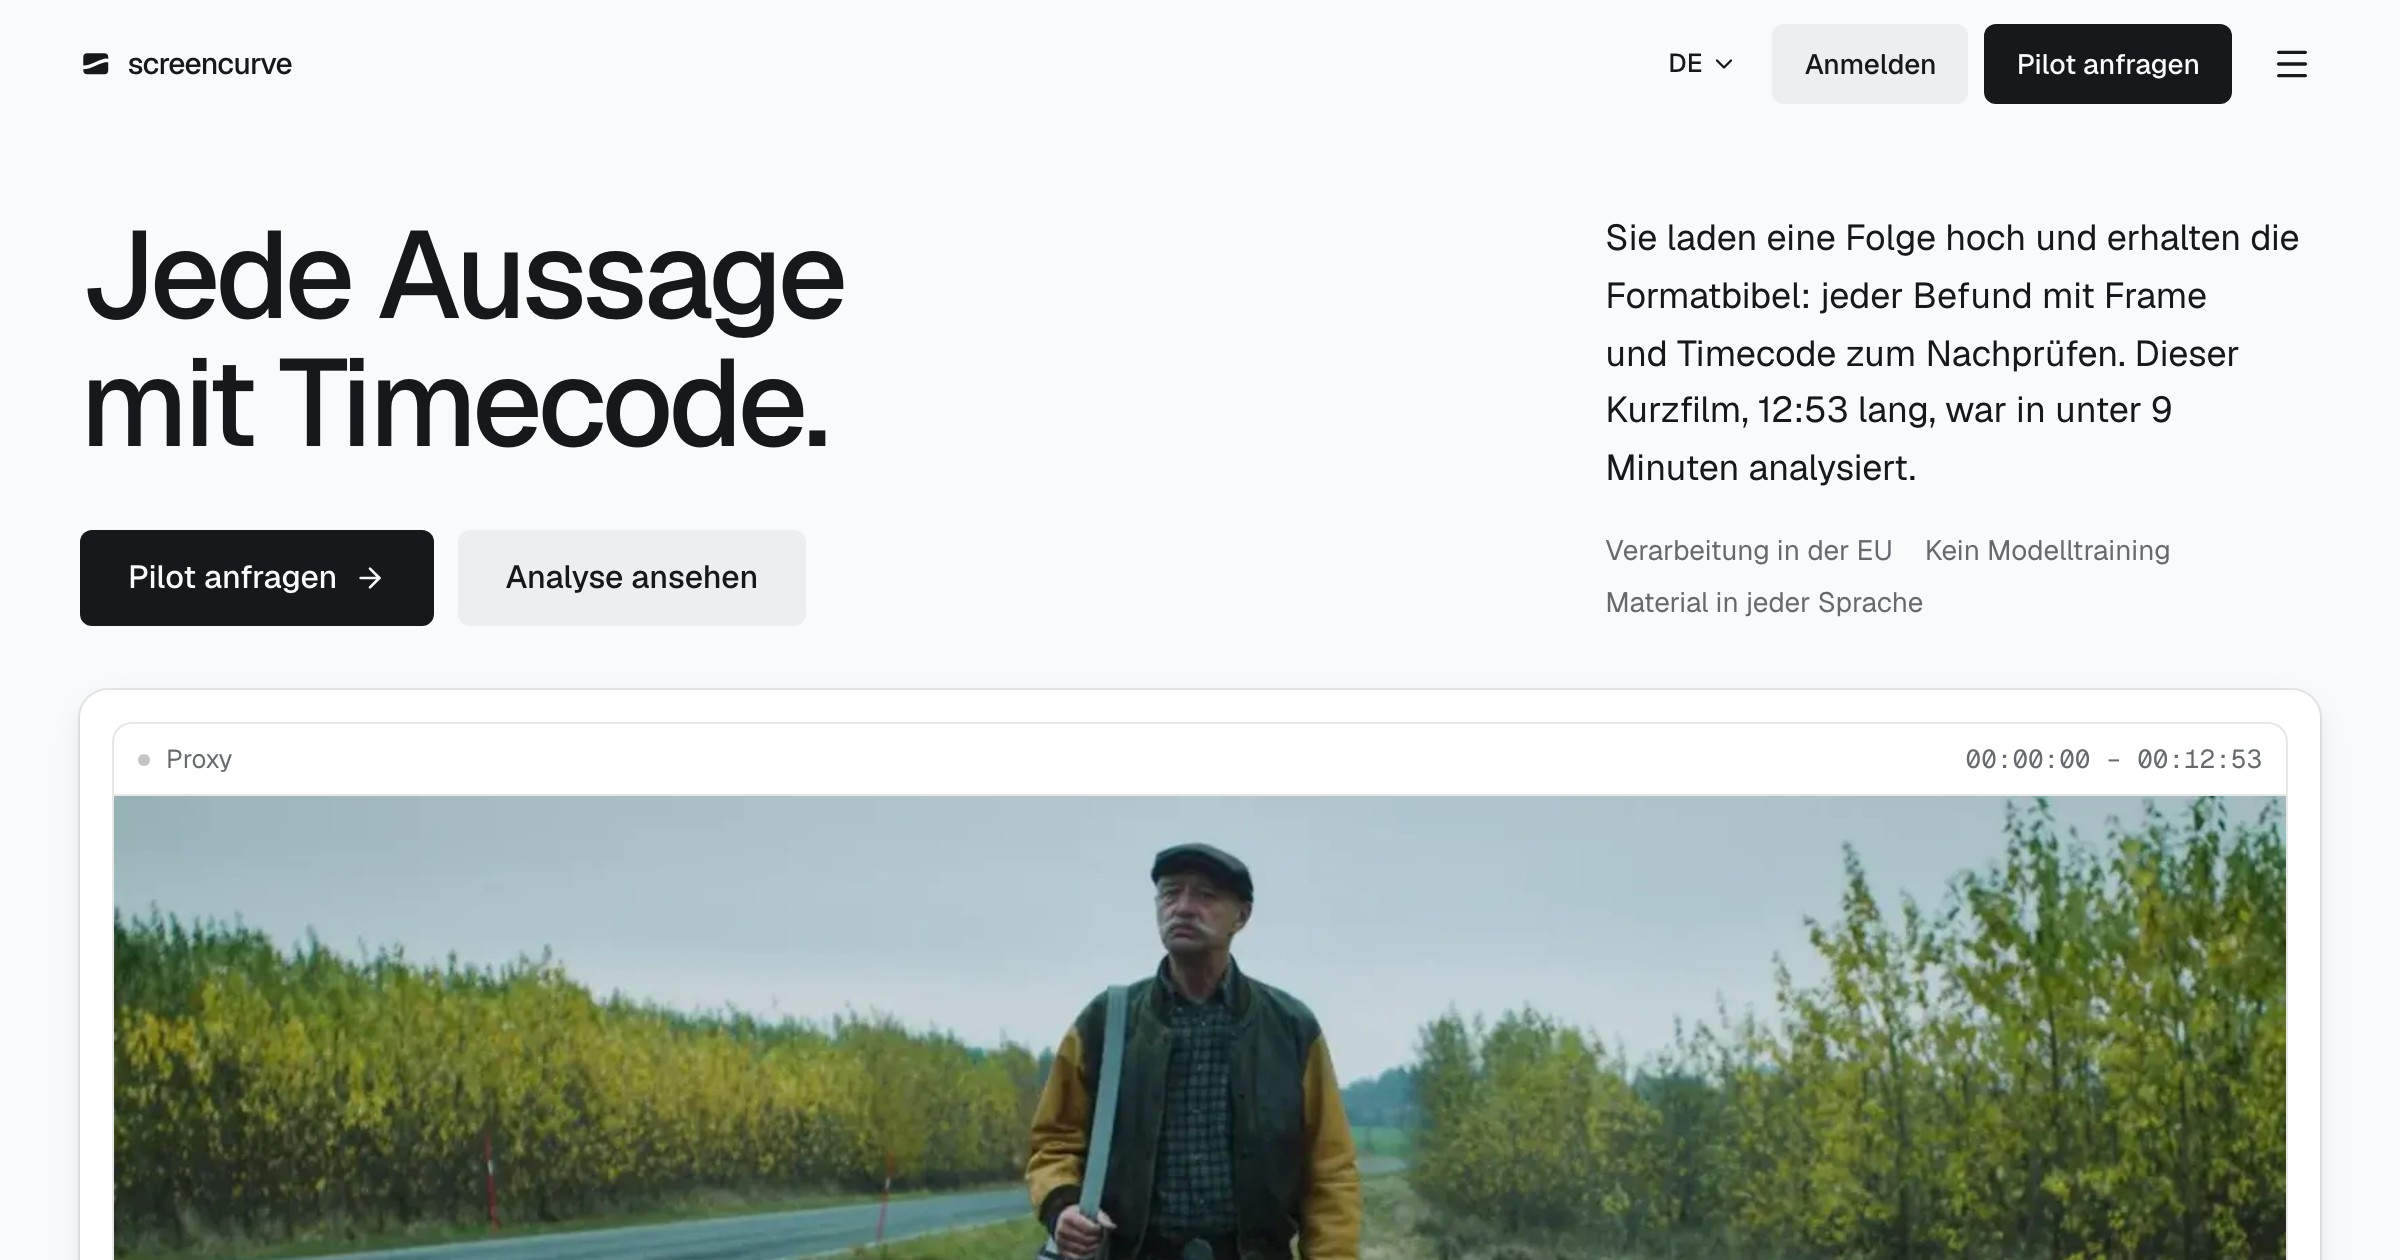
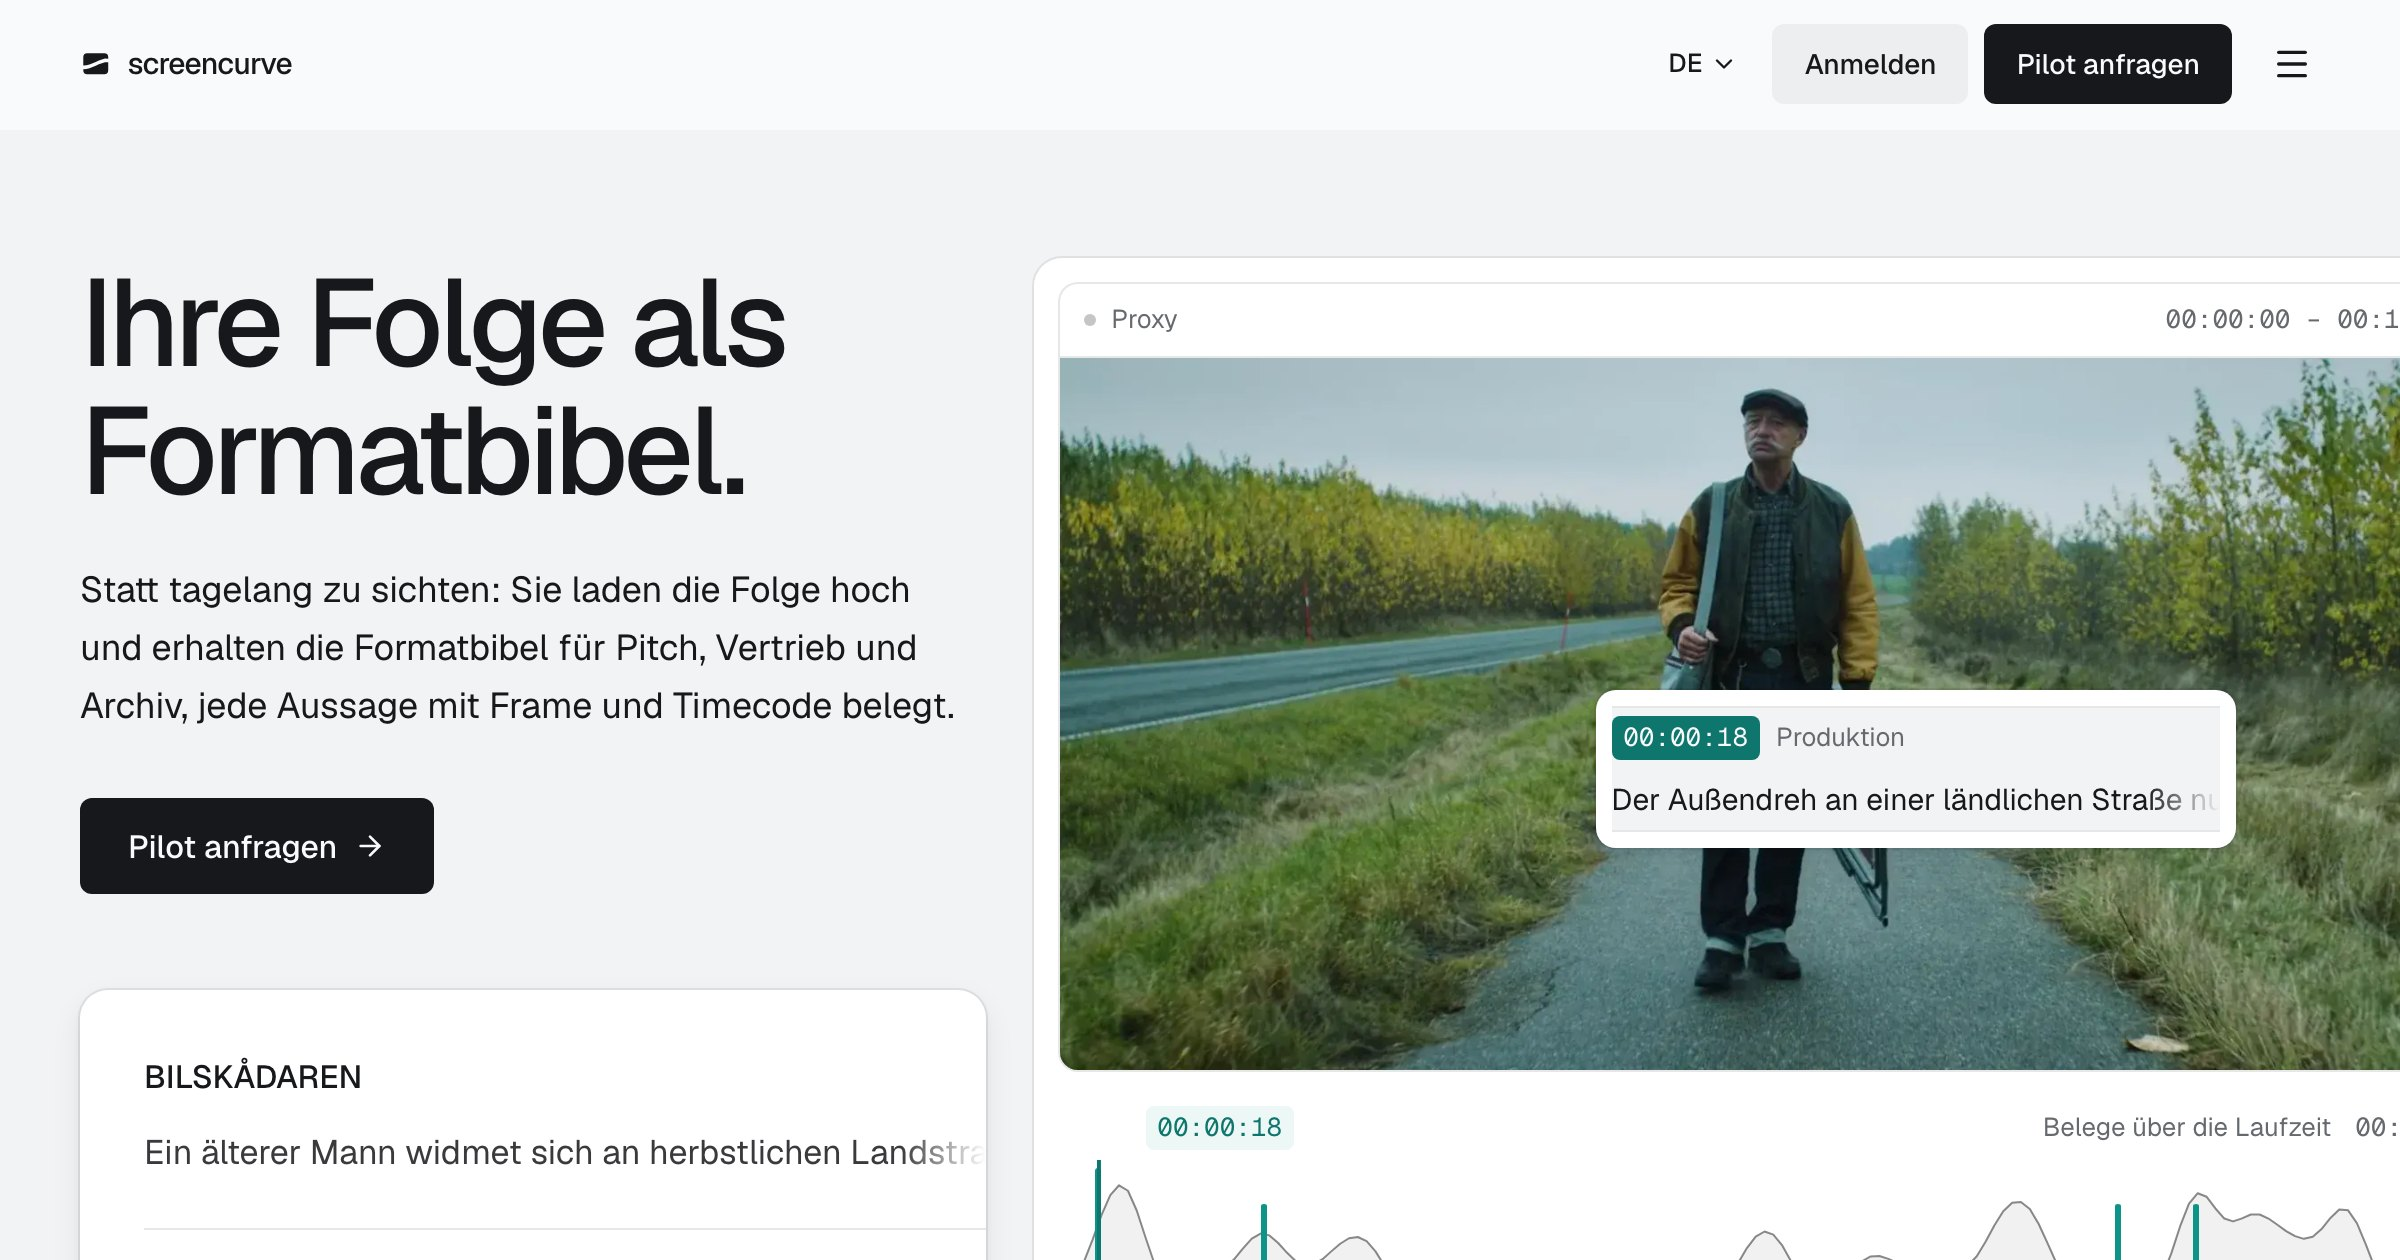
Recapture screencurve's landing and share images after its second redesign (WEB-588)
screencurve.com was redesigned again (screencurve-app #99, 9b5c27fa) and
is live. Captured from production as before, with reduced motion so the
hero shows its own still (the man on the lane, 00:00:18) instead of the
looping film; no consent banner appeared:

- landing.webp (en) and landing-de.webp: the top of the landing at
  1440 x 720 CSS, 2x (2880 x 1440), WebP, as in #69.
- share.jpg (en) and share-de.jpg: the top at 1200 x 630 CSS, 2x
  (2400 x 1260), JPEG, as the share images were made: brand, the hero's
  text column, the Formatbibel card and the player, which bleeds off the
  right edge at that width by the landing's design.

Text and OCR in every frame: no "Ulf", no Tears of Steel, no Big Buck
Bunny, "screencurve" only in lowercase. The pictures still show the home
page with a still of The Car Spotter, so the share alt texts stay. Cache
tag 20261116-landing-2.

diff --git a/apps/web/src/data/asset-version.ts b/apps/web/src/data/asset-version.ts
@@ -2,7 +2,7 @@
  * picture is recaptured under the same name. `next/image` serves a local
  * picture only when its search matches a `localPatterns` entry, so
  * `next.config.ts` builds those entries from the same constant. */
-export const SCREENCURVE_VERSION = "20261116-landing";
+export const SCREENCURVE_VERSION = "20261116-landing-2";
 
 /** The paths `next.config.ts` lets through with the tag. */
 export const SCREENCURVE_PATTERNS = [
